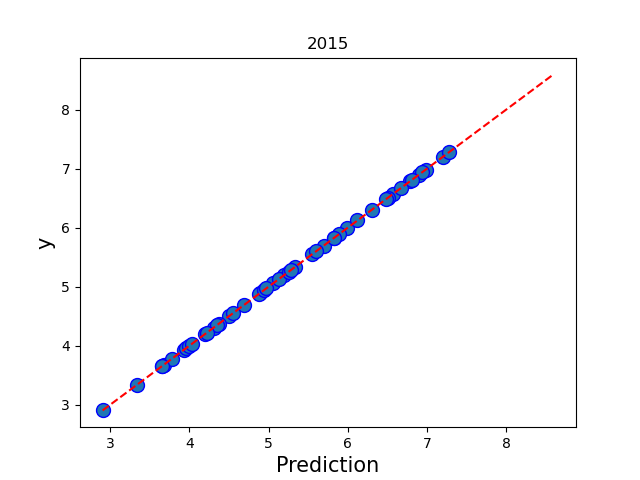
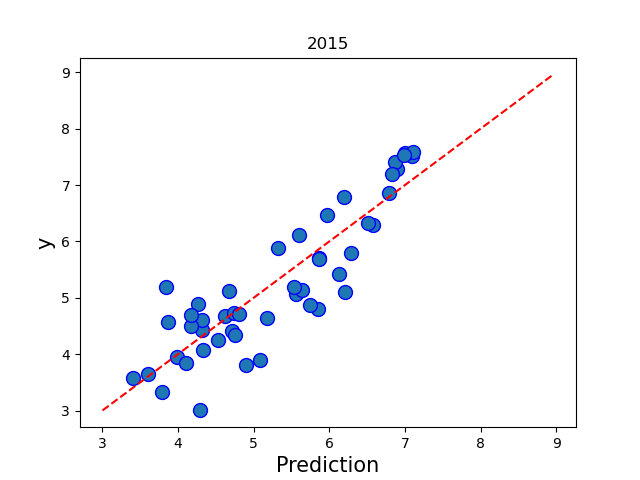
Separação das colunas de forma correta e gráfico arrumado.

diff --git a/DataCollector.py b/DataCollector.py
@@ -25,16 +25,54 @@ class DataCollector:
         self.data = {}
         self.numpy_data = {}
         self.tests = {}
+        self.dropped_columns = {}
+        self.remaining_columns = {}
+        self.columns = [
+            "Happiness Score", "Score",
+            "Economy (GDP per Capita)", "Economy GDP per Capita", "GDP per capita",
+            "Family", "Social support",
+            "Health (Life Expectancy)", "Health Life Expectancy", "Healthy life expectancy",
+            "Freedom", "Freedom to make life choices",
+            "Trust (Government Corruption)", "Trust Government Corruption", "Perceptions of corruption",
+            "Generosity"]
 
     def read_data(self, name, extension):
         self.data[name] = pd.read_csv(f'{self.directory}/{name}.{extension}', header=0)
         self.data[name] = self.data[name].fillna(value=0)
         self.numpy_data[name] = {'converted': False, 'array': None, 'score_index': None}
 
+        columns_to_drop = []
+        happiness_name = None
+
         for idx, elem in enumerate(self.data[name].keys()):
             if elem == "Happiness Score" or elem == "Score":
-                self.numpy_data[name]['score_index'] = idx
-                break
+                happiness_name = elem
+
+            drop_column = True
+
+            for column in self.columns:
+                if column == elem:
+                    drop_column = False
+                    break
+
+            if drop_column:
+                columns_to_drop.append(elem)
+
+        self.dropped_columns[name] = columns_to_drop
+
+        self.data[name] = self.data[name].drop(columns=columns_to_drop)
+
+        if self.data[name].keys()[-1] == 'Generosity':
+            columns_titles = list(self.data[name].keys())
+            temp = columns_titles[-1]
+            columns_titles[-1] = columns_titles[-2]
+            columns_titles[-2] = temp
+
+            self.data[name] = self.data[name].reindex(columns=columns_titles)
+
+        self.remaining_columns[name] = list(self.data[name].keys())
+
+        self.numpy_data[name]['score_index'] = self.data[name].columns.get_loc(happiness_name)
 
     def print_data(self, name):
         print(self.data[name])
@@ -67,24 +105,15 @@ class DataCollector:
         x = self.numpy_data[name].get('array')[:, (self.numpy_data[name].get('score_index') + 1):]
         y = self.numpy_data[name].get('array')[:, self.numpy_data[name].get('score_index')]
 
-        print(f'x:')
-
-        for row in np.array(x):
-            for col in np.array(row):
-                print(f'{col:6.5f} ', end='')
-            print()
-
-        print(f'y:')
-
-        for row in np.array(y):
-            print(f'{row:6.5f}')
-
-        x_train, x_test, y_train, y_test = train_test_split(x, y, test_size=training_percentage, random_state=42)
+        x_train, x_test, y_train, y_test = train_test_split(x, y, test_size=training_percentage, random_state=30)
 
         lm = LinearRegression()
         lm.fit(x_train, y_train)
         y_pred = lm.predict(x_test)
         r2 = r2_score(y_test, y_pred)
+
+        # print(f'intercept: {repr(lm.intercept_)}')
+        # print(f'coefficients: {repr(lm.coef_)}')
 
         self.tests[name] = {
             'x_train': x_train,
@@ -92,10 +121,12 @@ class DataCollector:
             'x_test': x_test,
             'y_test': y_test,
             'y_pred': y_pred,
+            'intercept': lm.intercept_,
+            'coefficients': list(lm.coef_),
             'r2': r2
         }
 
-    def plot_pred(self, name):
+    def plot_prediction(self, name):
         fig = plt.figure()
         l = plt.plot(self.tests[name].get('y_pred'), self.tests[name].get('y_test'), 'bo')
         plt.setp(l, markersize=10)
@@ -108,4 +139,64 @@ class DataCollector:
         yl = xl
         plt.plot(xl, yl, 'r--')
         plt.show(block=True)
+
+    def print_prediction_coefficients(self, name):
+        print(f'\tIntercept: {self.tests[name].get("intercept")}')
+        print(f'\tCoeficientes: {self.tests[name].get("coefficients")}')
+
+    def print_formula(self, name, keep_tab=False):
+        tab = ""
+
+        if keep_tab:
+            tab = "\t"
+
+        columns = list(self.data[name].keys())
+        columns = ["Happiness", "Economy", "Family", "Health", "Freedom", "Generosity", "Trust"]
+
+        formula = f'{columns[0]} = {self.tests[name].get("intercept"):5.4f}'
+
+        for idx, coefficient in enumerate(self.tests[name].get("coefficients")):
+            if coefficient < 0:
+                formula += f' - {(coefficient * -1):5.4f} * [{columns[idx+1]}]'
+
+            else:
+                formula += f' + {coefficient:5.4f} * [{columns[idx+1]}]'
+
+        print(f'{tab}{formula}')
+
+    def print_r2(self, name, keep_tab=False):
+        tab = ""
+
+        if keep_tab:
+            tab = "\t"
+
+        print(f'{tab}r² = {self.tests[name].get("r2"):4.5f}')
+
+    def print_trained_data(self, name, num_of_columns=6, keep_tab=False):
+        tab = ""
+
+        if keep_tab:
+            tab = "\t"
+
+        print(f'x_test:')
+        for idx, elem in enumerate(np.array(np.sort(self.tests[name].get("x_test"))[::-1])):
+            print(f'{tab}{elem:5.4f}', end=' ')
+            if (idx + 1) % 6 == 0:
+                print()
+        print()
+
+        print(f'y_test:')
+        for idx, elem in enumerate(np.array(np.sort(self.tests[name].get("y_test"))[::-1])):
+            print(f'{tab}{elem:5.4f}', end=' ')
+            if (idx + 1) % 6 == 0:
+                print()
+        print()
+
+        print(f'y_pred:')
+
+        for idx, elem in enumerate(np.array(np.sort(self.tests[name].get("y_pred"))[::-1])):
+            print(f'{tab}{elem:5.4f}', end=' ')
+            if (idx + 1) % 6 == 0:
+                print()
+        print()
 

diff --git a/main.py b/main.py
@@ -26,12 +26,19 @@ def main():
     for filename in os.listdir(directory):
         if filename.endswith(".csv"):
             filename = filename.strip('.csv')
+            print(f'{filename}.csv:')
             dataCollector.read_data(filename, 'csv')
+
+            print(f'\tColunas Removidas: {dataCollector.dropped_columns.get(filename)}')
+            print(f'\tColunas Restantes: {dataCollector.remaining_columns.get(filename)}')
+
             dataCollector.convert_to_numpy(filename)
             dataCollector.train_tests(filename)
-            dataCollector.plot_pred(filename)
-        else:
-            continue
+            dataCollector.plot_prediction(filename)
+            dataCollector.print_formula(filename, keep_tab=True)
+            dataCollector.print_r2(filename, keep_tab=True)
+
+            print()
 
 
 if __name__ == "__main__":
